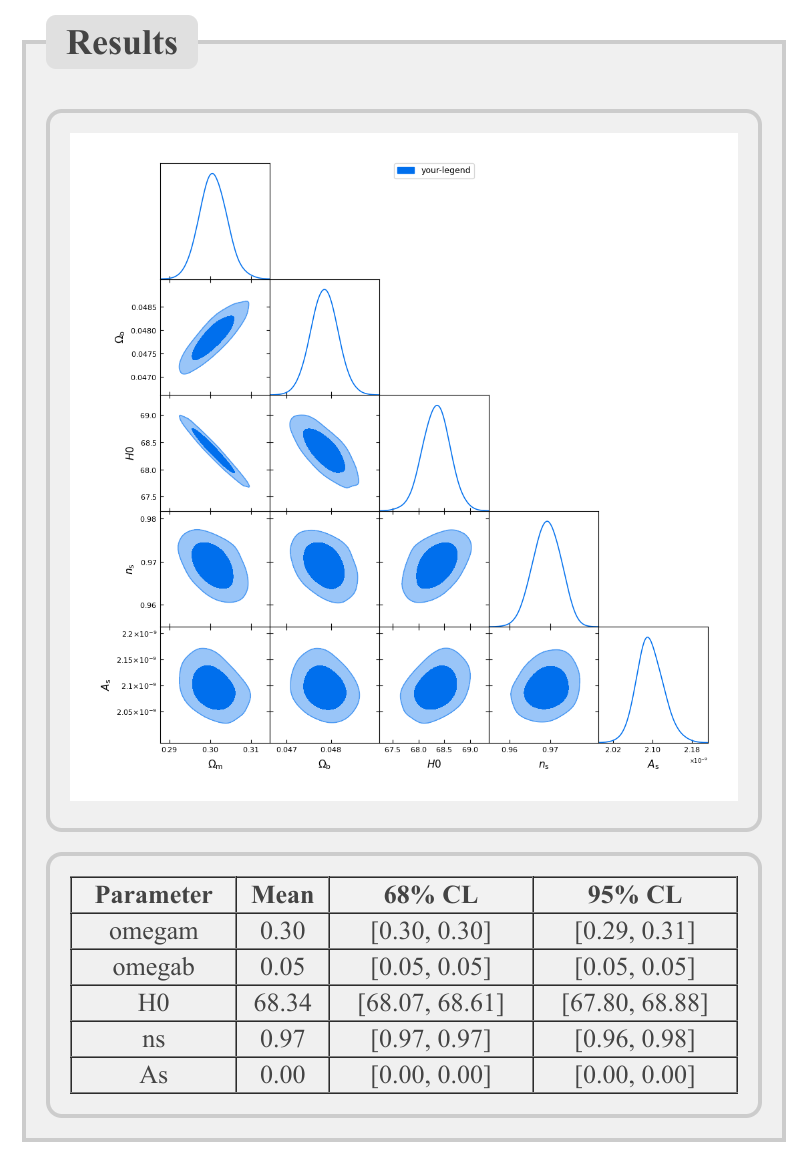
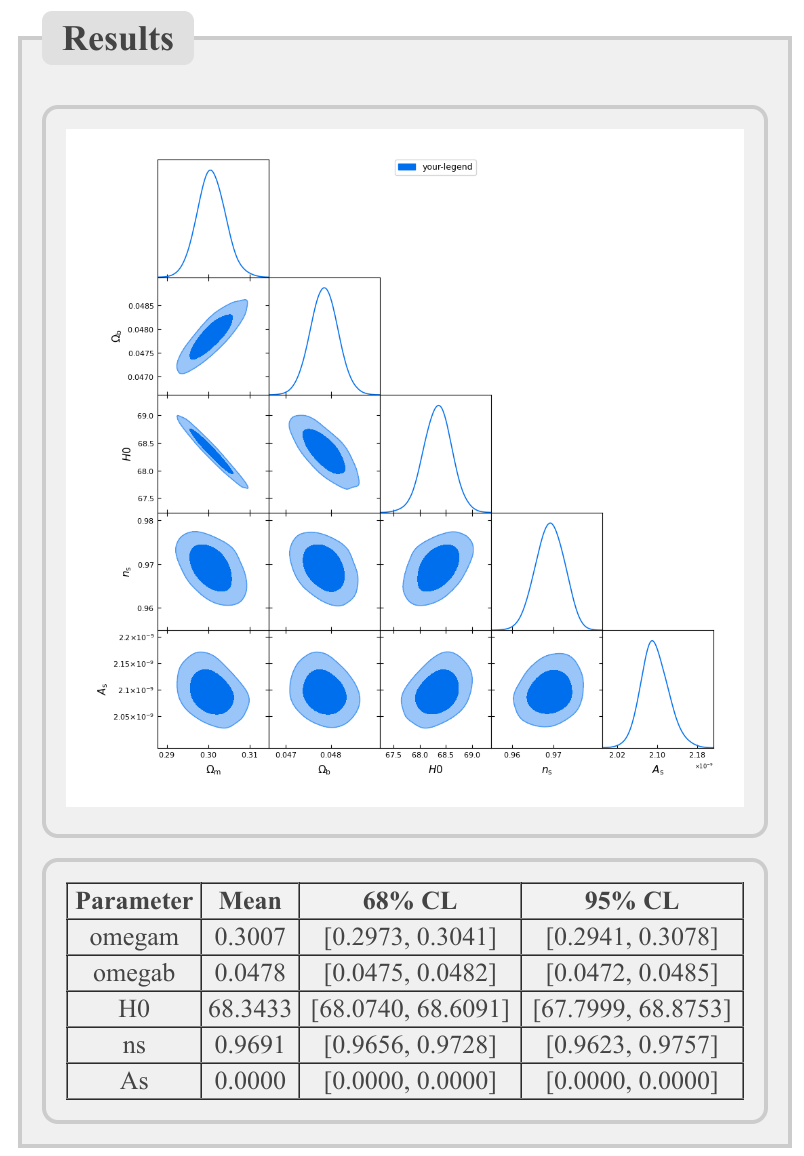
update results accuracy

diff --git a/media/process.py b/media/process.py
@@ -91,9 +91,9 @@ class getdist_analysis:
             table_data += f"""
             <tr>
                 <td>{param}</td>
-                <td>{mean:.2f}</td>
-                <td>[{lower68:.2f}, {upper68:.2f}]</td>
-                <td>[{lower95:.2f}, {upper95:.2f}]</td>
+                <td>{mean:.4f}</td>
+                <td>[{lower68:.4f}, {upper68:.4f}]</td>
+                <td>[{lower95:.4f}, {upper95:.4f}]</td>
             </tr>
             """
 
